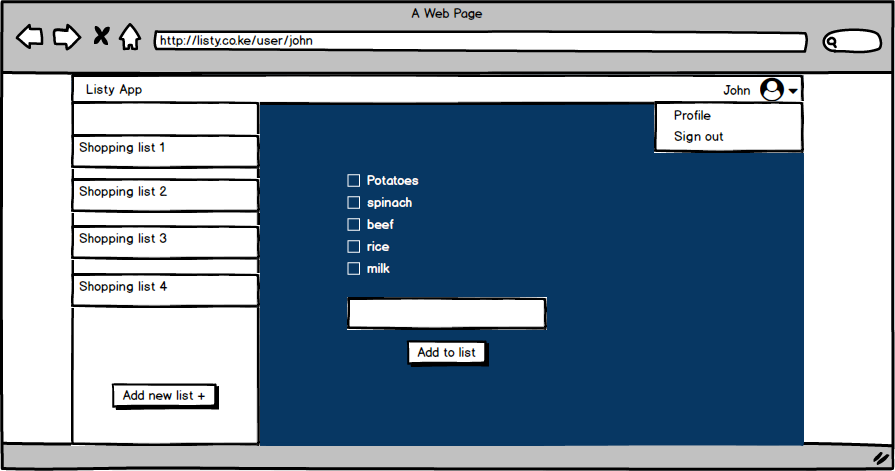
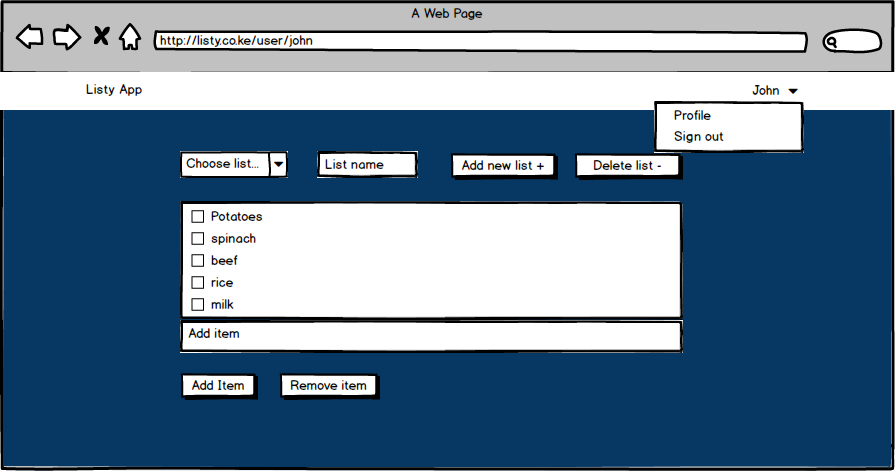
new designs and bootstrapped pages

diff --git a/user.html b/user.html
@@ -1,0 +1,115 @@
+<!DOCTYPE html>
+<html lang="en">
+<head>
+    <meta charset="UTF-8">
+    <meta name="viewport" content="width=device-width, initial-scale=1.0">
+    <meta http-equiv="X-UA-Compatible" content="ie=edge">
+    
+    <link rel="stylesheet" href="https://maxcdn.bootstrapcdn.com/bootstrap/3.3.7/css/bootstrap.min.css">
+    <link rel="stylesheet" href="https://maxcdn.bootstrapcdn.com/font-awesome/4.7.0/css/font-awesome.min.css" >
+    <link rel="stylesheet" type="text/css" href="styles/style.css">
+    <link href="https://fonts.googleapis.com/css?family=Source+Sans+Pro:400,700" rel="stylesheet">
+
+    <script src="https://code.jquery.com/jquery-3.2.1.js"></script>
+	<script src="https://maxcdn.bootstrapcdn.com/bootstrap/3.3.7/js/bootstrap.min.js"></script>
+    
+    <title>John</title>
+</head>
+<body>
+    <nav class="navbar navbar-default">
+            <div class="container">
+                <div class="navbar-header">
+                    <button type="button" class="navbar-toggle collapsed" data-toggle="collapse" data-target="#burger" aria-expanded="false">
+                        <span class="sr-only">Toggle navigation</span>
+                        <span class="icon-bar"></span>
+                        <span class="icon-bar"></span>
+                        <span class="icon-bar"></span>
+                    </button>
+    
+                    <a class="navbar-brand" href="#"> Listy App</a>
+                </div>
+                        
+                <div class="collapse navbar-collapse" id="burger">
+                    <ul class="nav navbar-nav navbar-right">
+                            <li class="nav-item dropdown">
+                                    <a class="nav-link dropdown-toggle" href="#" id="navbarDropdownMenuLink" data-toggle="dropdown" aria-haspopup="true" aria-expanded="false">
+                                        John <i class="fa fa-caret-down" aria-hidden="true"></i>
+                                    </a>
+                                    <div class="dropdown-menu" aria-labelledby="navbarDropdownMenuLink">
+                                        <a class="dropdown-item" href="#">Profile</a>
+                                        <a class="dropdown-item" href="#">Sign Out</a>
+                                    </div>
+                            </li>
+                    </ul>
+                </div>     
+            </div>
+    </nav>
+
+<!--List selection, addition and deletion-->
+    <div class="container">
+        <form>
+            <div class="form-row align-items-center">
+                <div class="col-sm-3">
+                    <select class="custom-select">
+                        <option selected>Choose list...</option>
+                        <option value="1">Shopping list 1</option>
+                        <option value="2">Shopping list 2</option>
+                        <option value="3">Shopping list 3</option>
+                        <option value="3">Shopping list 4</option>
+                    </select>
+                </div>
+                <div class="col-sm-3">
+                    <label class="sr-only" for="inlineFormInputName">Name</label>
+                    <input type="text" class="form-control mb-2 mb-sm-0" id="inlineFormInputName" placeholder="List Name">
+                </div>
+                <div class="col-sm-3">
+                    <button type="submit" class="btn btn-primary btn-list">Submit</button>
+                </div>
+                <div class="col-sm-3">
+                    <button type="submit" class="btn btn-primary btn-list">Delete</button>
+                </div>
+            </div>
+        </form>
+
+
+<!--list items-->
+        <div class="lst">
+                <div class="form-check">
+                    <!--items will have to be created in a list-->
+                    <label class="form-check-label">
+                        <input class="form-check-input" type="checkbox" value="">
+                        Potatoes
+                    </label>
+                    <label class="form-check-label">
+                            <input class="form-check-input" type="checkbox" value="">
+                            Spinach
+                    </label>
+                    <label class="form-check-label">
+                            <input class="form-check-input" type="checkbox" value="">
+                            Beef
+                    </label>
+                    <label class="form-check-label">
+                            <input class="form-check-input" type="checkbox" value="">
+                            rice
+                    </label>
+                    <label class="form-check-label">
+                            <input class="form-check-input" type="checkbox" value="">
+                            Milk
+                    </label>
+                </div>
+        </div>
+
+<!--item addition/deletion-->
+        <div class="item-text">
+            <label class="sr-only" for="itemName">item</label>
+            <input type="text" class="form-control mb-2 mb-sm-0" id="itemName" placeholder="Add item...">
+        </div>
+
+        <div class="btn-item form-check-inline">
+            <button type="submit" class="btn btn-secondary btn-space">Add item</button>
+            <button type="submit" class="btn btn-secondary btn-space">Remove item</button>
+        </div>
+    </div>
+
+</body>
+</html>

diff --git a/styles/style.css b/styles/style.css
@@ -16,6 +16,8 @@
       font-size: 1em;
     }
 
+
+
   }
   
   /* Medium devices (desktops, 992px and up) */
@@ -34,6 +36,7 @@ body {
     background-color: #073763;
 }
 
+/*navbar*/
 .navbar-brand {
     font-size: large;
     font-weight: 600;
@@ -44,8 +47,22 @@ body {
 }
 
 .navbar-nav>li>a {
-    font-size: medium;
+    font-size: large;
     font-weight: 600;
+}
+
+.dropdown-item {
+    display: block;
+    width: 100%;
+    padding: .25rem 1.5rem;
+    clear: both;
+    font-weight: 400;
+    font-size: medium;
+    color: #212529;
+    text-align: inherit;
+    white-space: nowrap;
+    background: 0 0;
+    border: 0;
 }
 
 /*homepage*/
@@ -88,5 +105,57 @@ body {
     height: auto;
 }
 
+/*User-page*/
+.form-control {
+    display: block;
+    width: 100%;
+    padding: .5rem .75rem;
+    font-size: 1em;
+    background-color: #fff;
+    border: 1px solid rgba(0,0,0,.15);
+    border-radius: .25rem;
+}
 
+.custom-select{
+    font-size: 1em;
+    width: 100%;
+    border-radius: .25rem;
+    height: 2.4em;
+}
+
+.btn-list{
+    width: 100%;
+}
+
+.lst {
+    width: 98%;
+    margin: auto;
+    margin-top:50px;
+    background-color: #fff;
+    border: 1px solid rgba(0,0,0,.15);
+    border-radius: .25rem;
+    padding: .5rem .75rem;
+}
+
+.form-check {
+    margin-bottom: .5rem;
+}
+
+label {
+    display: block;
+}
+
+.item-text {
+    width: 98%;
+    margin: auto;
+}
+
+.btn-item {
+    margin-top:20px;
+    padding-left:.7em;
+}
+
+.btn-space{
+    margin-right: 3em;
+}
 

diff --git a/index.html b/index.html
@@ -4,6 +4,7 @@
     <meta charset="UTF-8">
     <meta name="viewport" content="width=device-width, initial-scale=1.0">
     <meta http-equiv="X-UA-Compatible" content="ie=edge">
+    
     <link rel="stylesheet" href="https://maxcdn.bootstrapcdn.com/bootstrap/3.3.7/css/bootstrap.min.css">
     <link rel="stylesheet" type="text/css" href="styles/style.css">
     <link href="https://fonts.googleapis.com/css?family=Source+Sans+Pro:400,700" rel="stylesheet">
